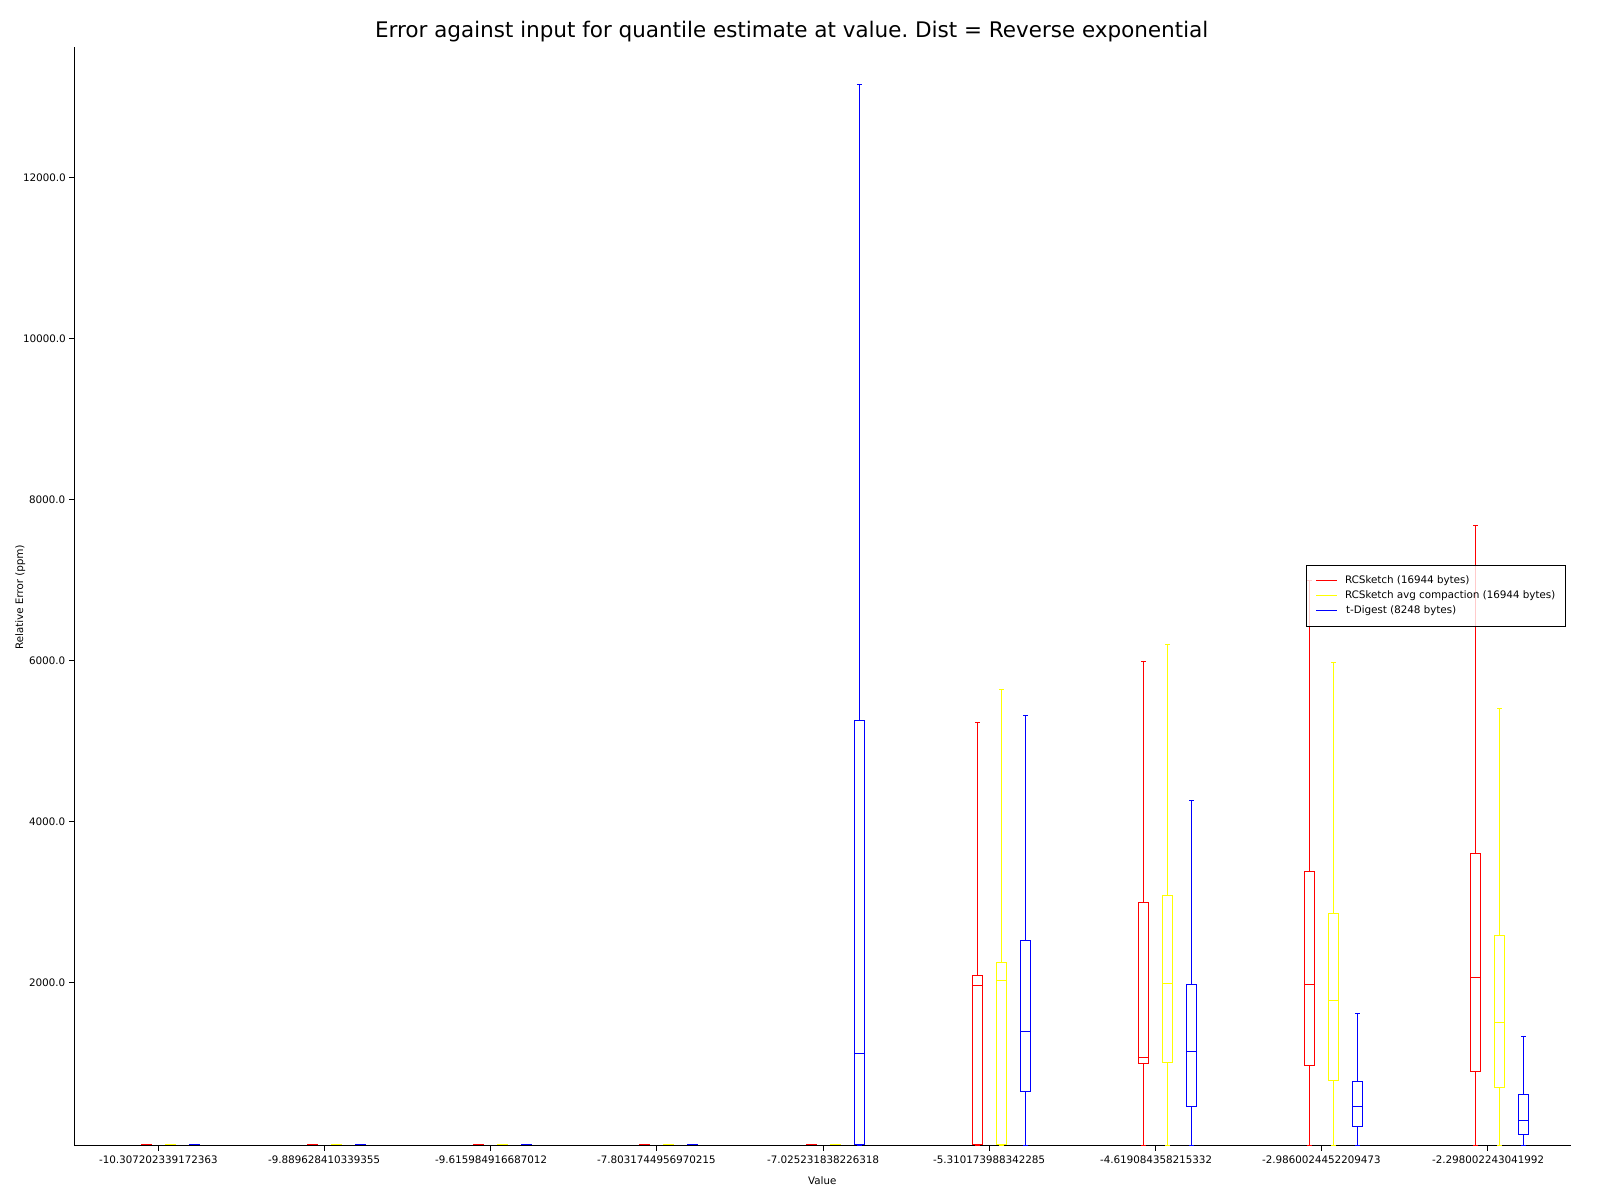
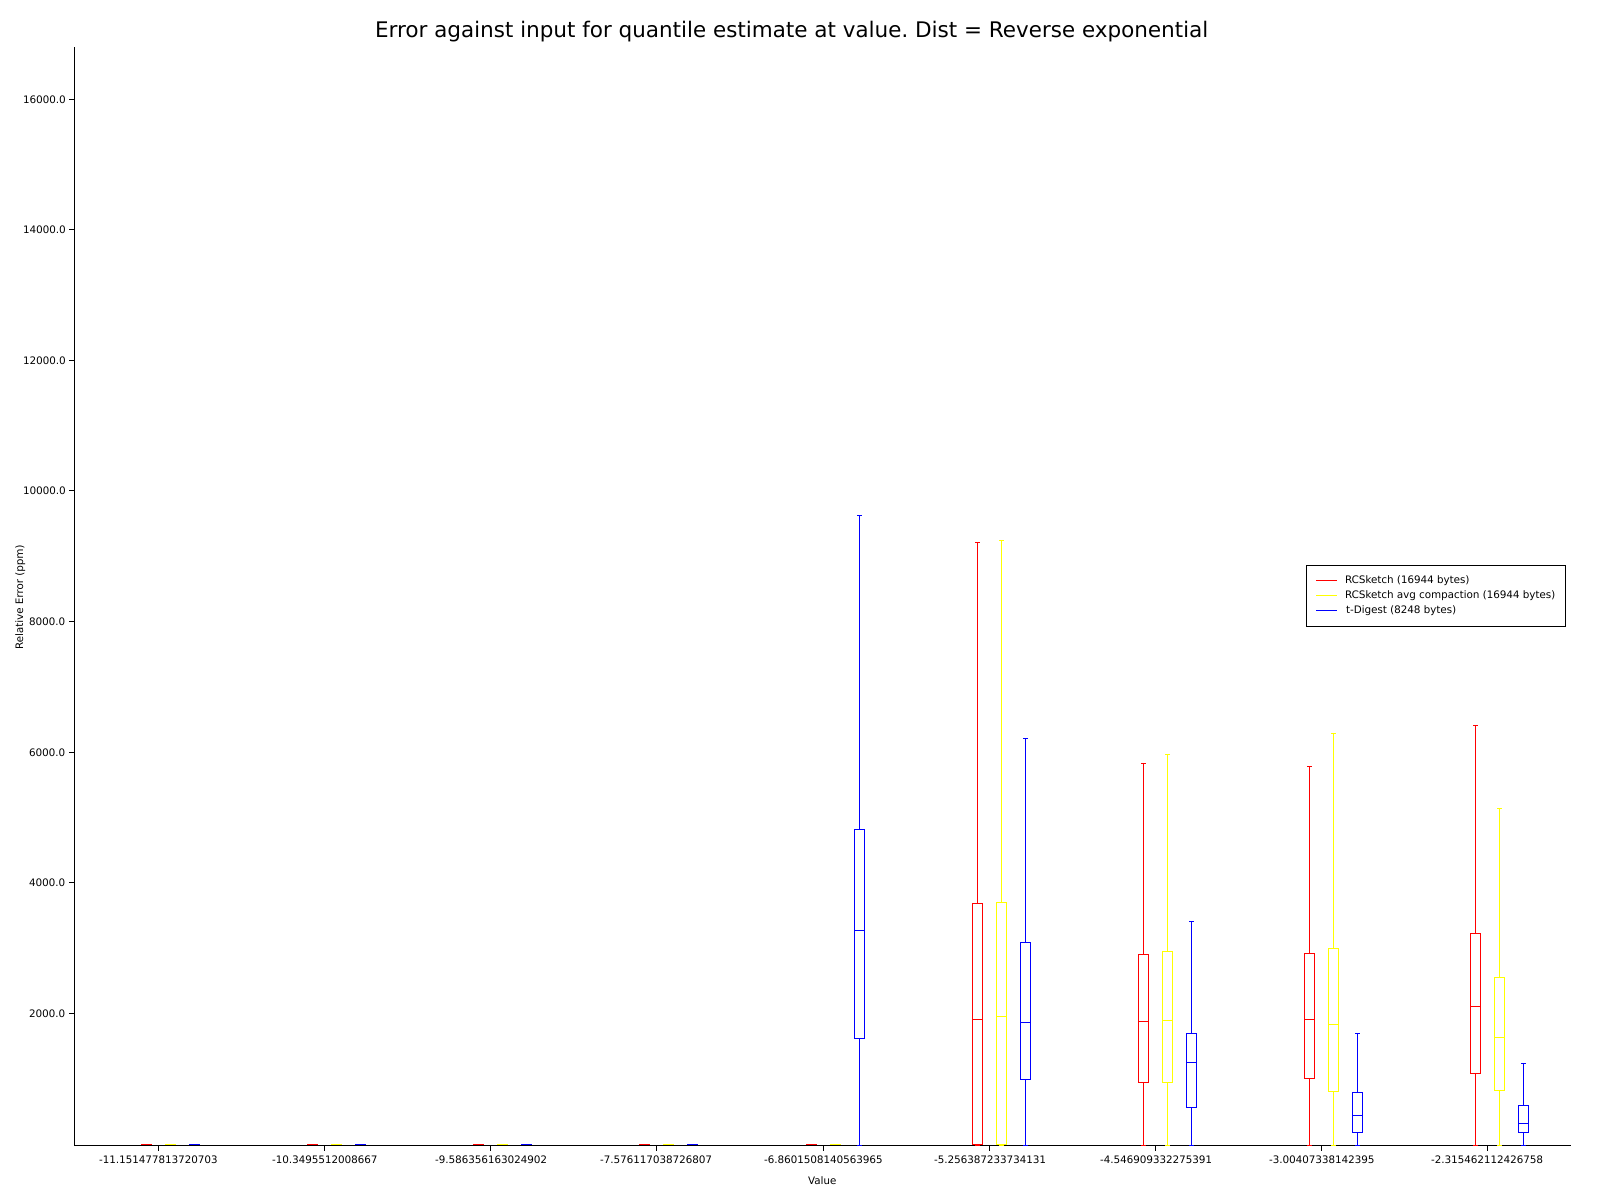
Perform accuracy measurements for many input sizes

diff --git a/examples/accuracy.rs b/examples/accuracy.rs
@@ -898,7 +898,14 @@ where
     let rcsketch_param = T::from(20.0).unwrap();
     let t_digest_param = T::from(10000.0).unwrap();
 
-    let input_sizes = [10_000, 100_000, 1_000_000];
+//    let input_sizes = [10_000, 100_000, 1_000_000];
+let input_sizes = [
+10_000, 200_000, 40_000, 60_000, 80_000  
+,100_000, 200_000, 400_000, 600_000, 800_000  
+,1_000_000, 2_000_000, 4_000_000, 6_000_000, 8_000_000 
+,10_000_000, 20_000_000, 40_000_000, 60_000_000, 80_000_000, 100_000_000
+];
+
     // let rc_sketch_mem_size = |input_size| {
     //     let digest = create_rcsketch(rcsketch_param)(&gen_uniform_tan_vec(input_size));
     //     digest.owned_size()
@@ -1159,13 +1166,6 @@ where
     if actual == T::from(0.0).unwrap() {
         return measured.abs();
     }
-    println!(
-        "Error {} {} {} {}",
-        measured.to_f64().unwrap(),
-        actual.to_f64().unwrap(),
-        (measured - actual).to_f64().unwrap(),
-        ((measured - actual).abs() / actual.abs()).to_f64().unwrap()
-    );
     (measured - actual).abs() / actual.abs()
 }
 
